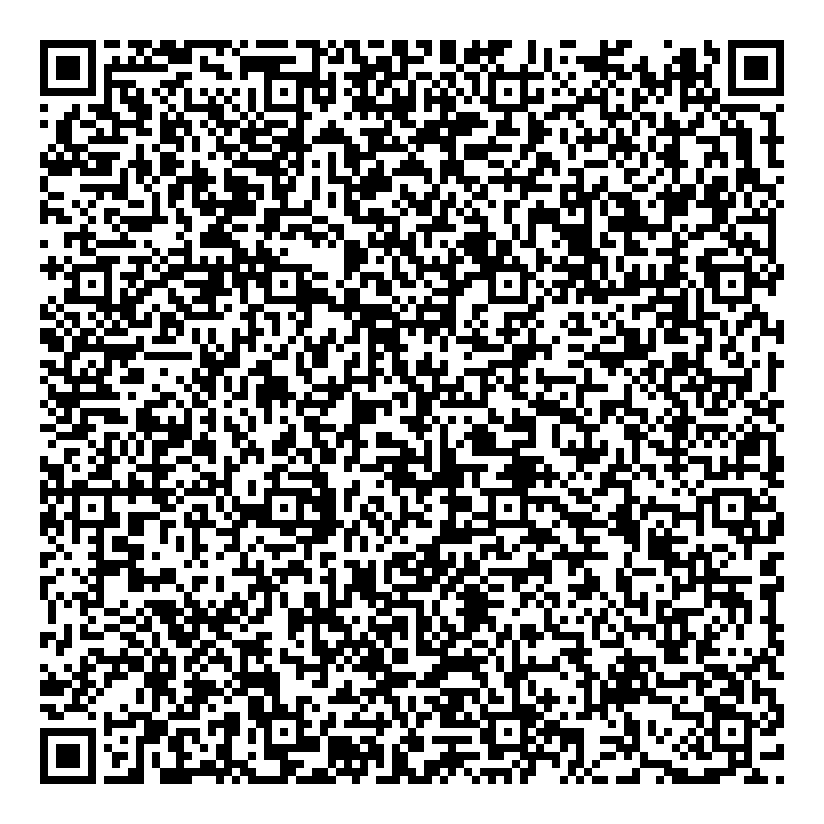
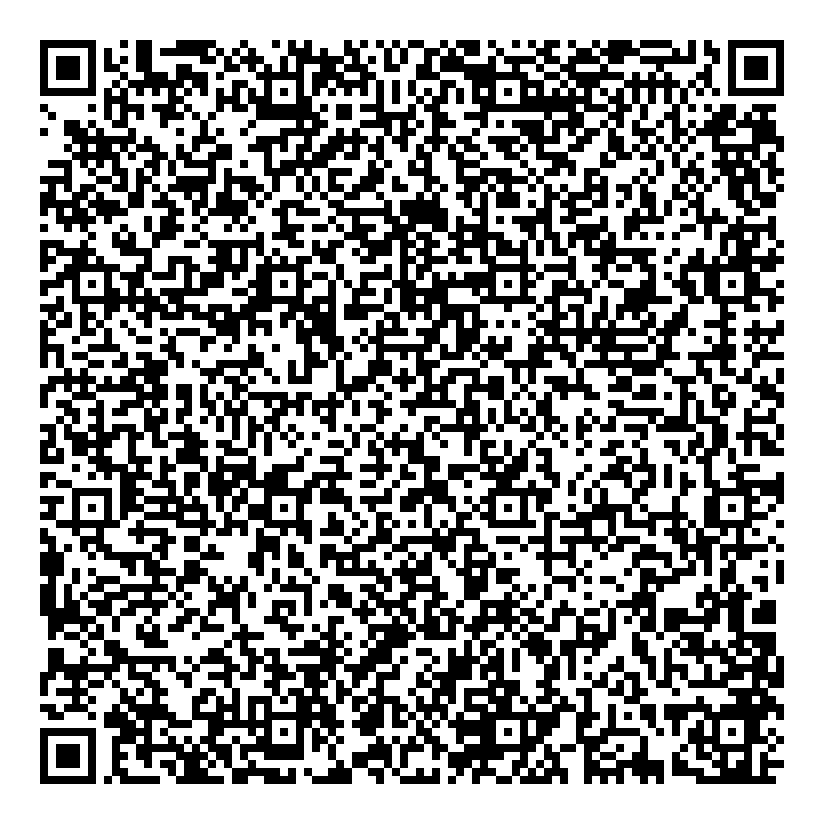
Publish Remote Agent 1.2.5

diff --git a/src/pages/PhoneControlPage.jsx b/src/pages/PhoneControlPage.jsx
@@ -222,8 +222,8 @@ function SummaryCard({ label, value, detail, tone = 'slate' }) {
 function FieldProvisioningCard() {
   const basePath = import.meta.env.BASE_URL || '/portal/';
   const [release, setRelease] = useState({
-    versionName: '1.2.4',
-    apkUrl: 'https://chargerentstations.com/portal/mdm/remote-agent-v1.2.4.apk',
+    versionName: '1.2.5',
+    apkUrl: 'https://chargerentstations.com/portal/mdm/remote-agent-v1.2.5.apk',
     qrImagePath: `${basePath}mdm/remote-agent-device-owner-qr.png`,
     qrPayloadPath: `${basePath}mdm/remote-agent-device-owner-payload.json`,
   });

diff --git a/src/version.js b/src/version.js
@@ -1,1 +1,1 @@
-export const VERSION = '1.70';
+export const VERSION = '1.71';
